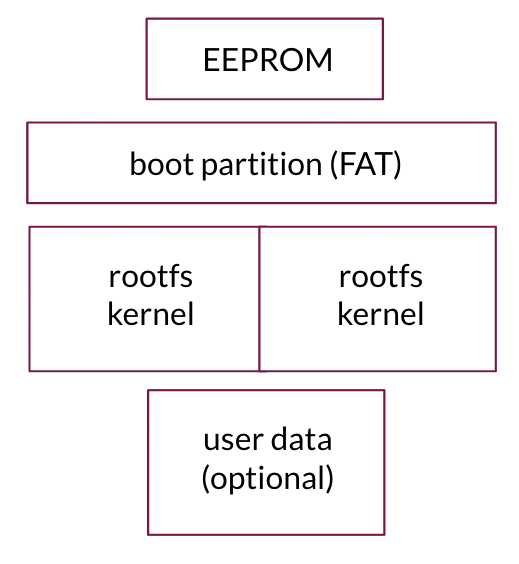
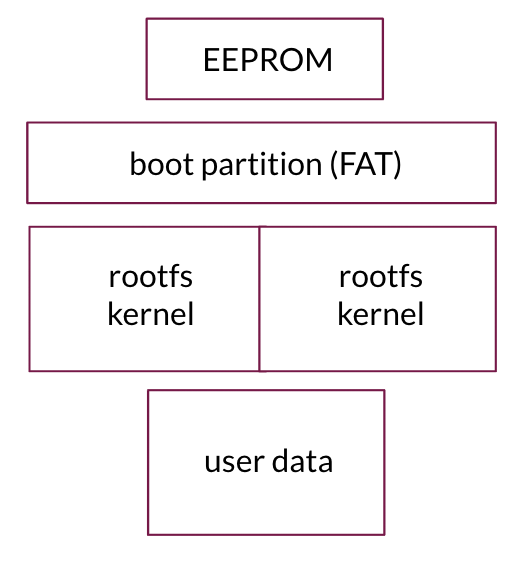
Clarify that data partition is not optional.

Changed region(s): [[0.3699, 0.7535, 0.6474, 0.8741]]

diff --git a/01.Getting-started/02.System-requirements/docs.md b/01.Getting-started/02.System-requirements/docs.md
@@ -26,9 +26,11 @@ Support for modifying U-Boot variables from userspace is also required so that f
 [compiled from U-Boot sources](http://www.denx.de/wiki/view/DULG/HowCanIAccessUBootEnvironmentVariablesInLinux?target=_blank) and are part of U-Boot.
 
 ###Device partitioning
-At least three different partitions are required, one of which is the boot partition, and the remaining two partitions are where both the kernel and rootfs are stored. One of the partitions will be used as active partition, from which the kernel and rootfs will be booted, the second one will be used by the update mechanism to write the updated image. The second partition will be referred to as "inactive" later in this document.
+At least four different partitions are required, one of which is the boot partition, two partitions where both the kernel and rootfs are stored, and one which holds user data.
 
-It is also possible to use yet another partition to store persistent user data, so this does not get overwritten during an update.
+One of the partitions will be used as active partition, from which the kernel and rootfs will be booted, the second one will be used by the update mechanism to write the updated image. The second of these two partitions will be referred to as "inactive" later in this document.
+
+The user data partition stores persistent data, so this does not get overwritten during an update.
 
 A sample partition layout is shown below:
 
